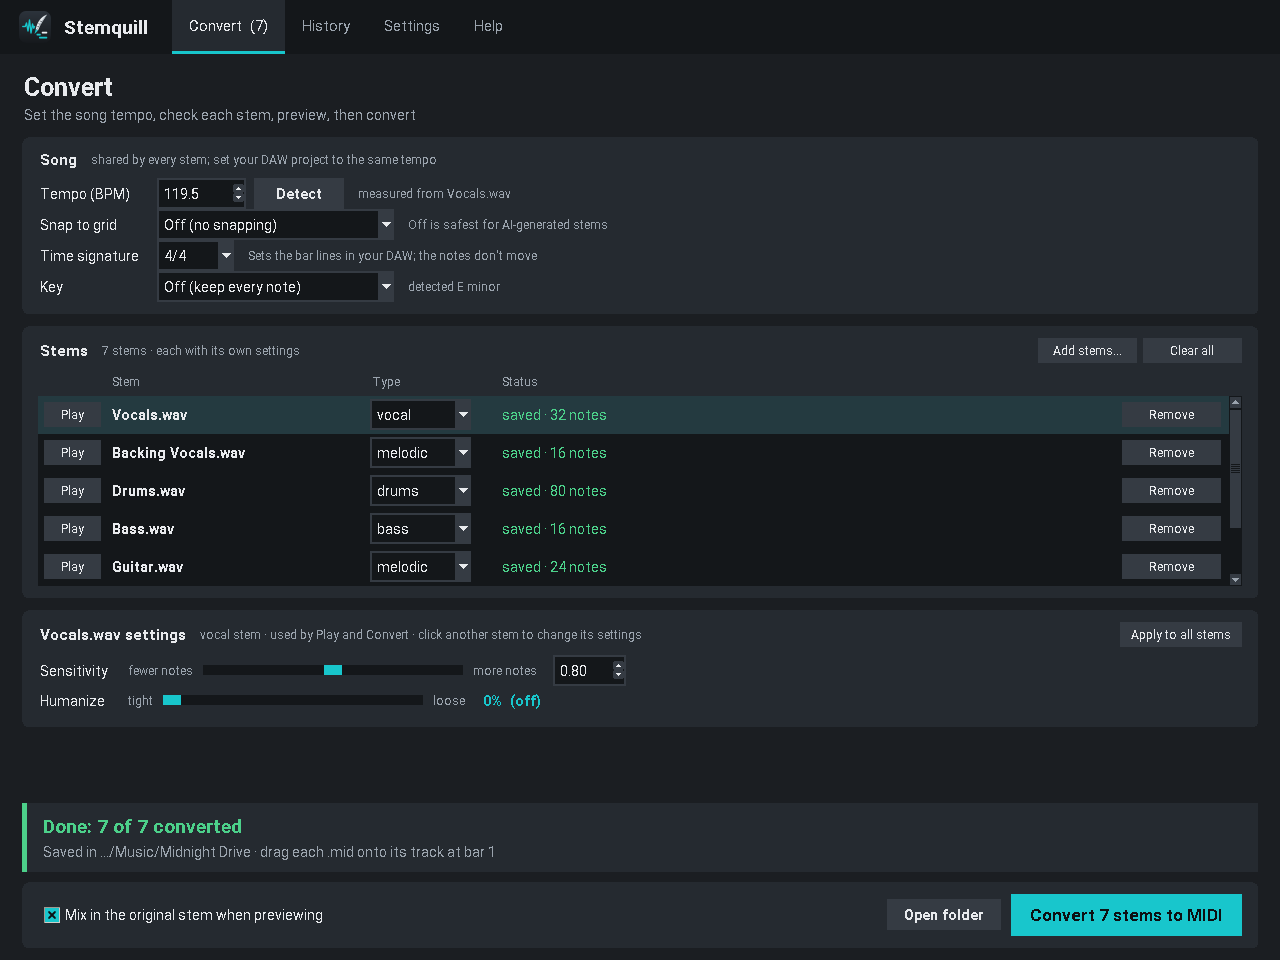
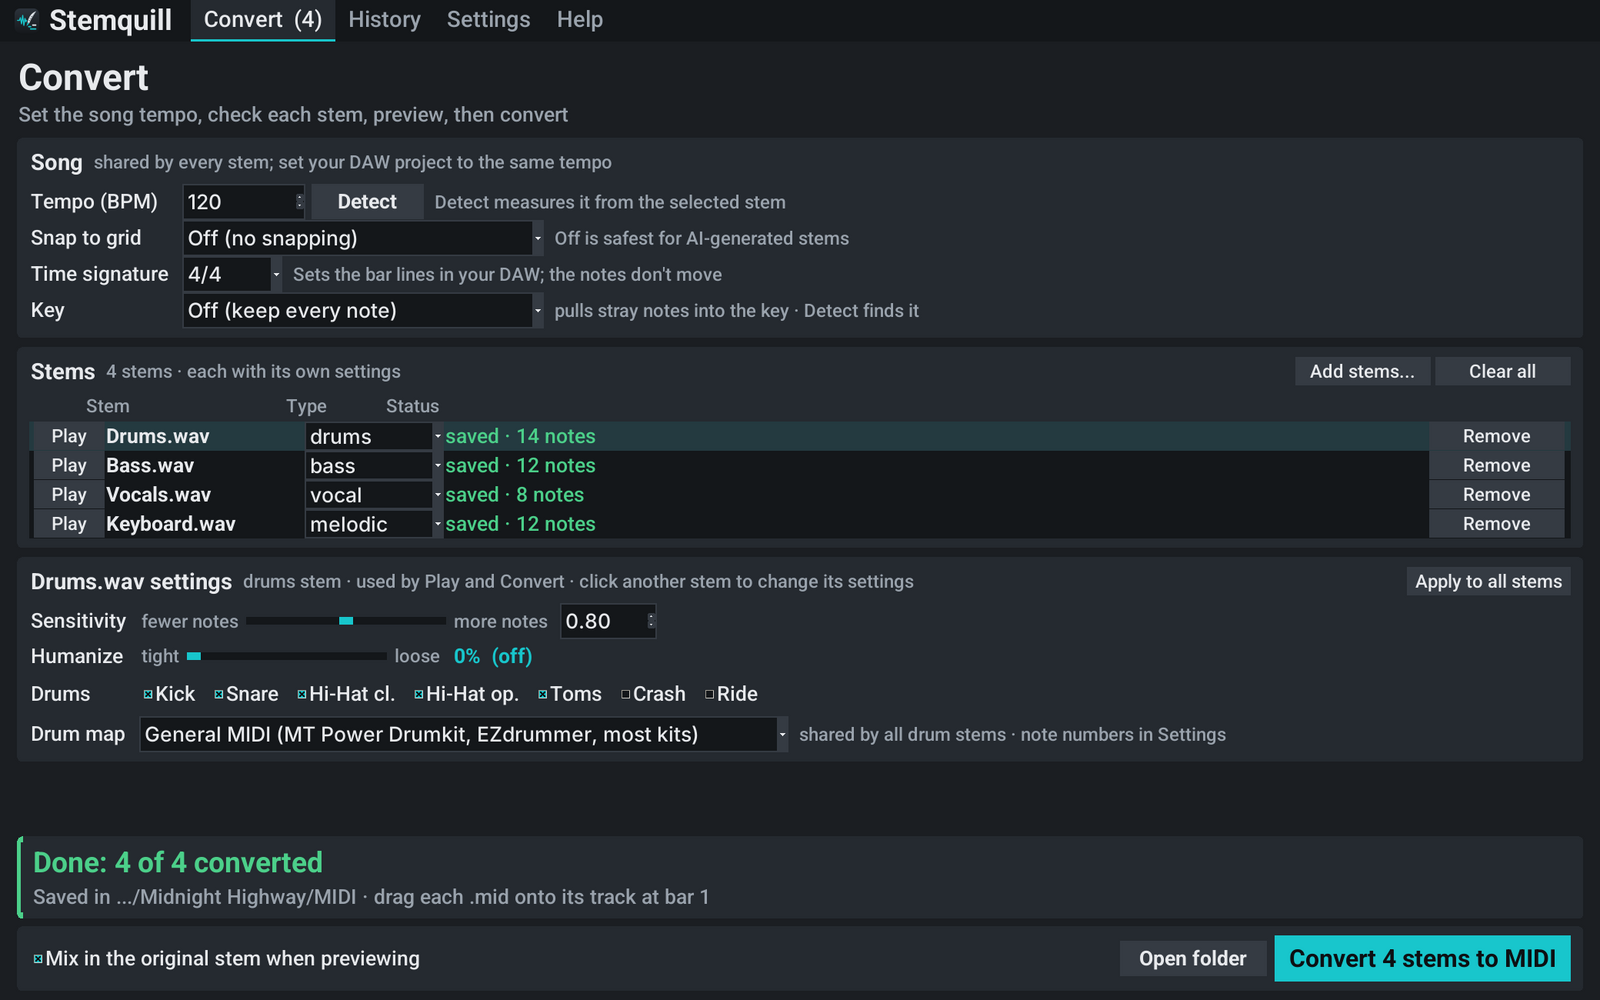
README: $11.99, the free demo, and a new screenshot
- Price is now $11.99 on the Microsoft Store and itch.io (badges, intro,
  install steps and the support section).
- New free demo: a badge, a "Try it free first" line with its limits, and
  the demo download / Store free trial in the install steps.
- New screenshot of the current window; current icon.

diff --git a/README.md b/README.md
@@ -1,8 +1,9 @@
 # <img src="docs/icon-64.png" alt="" width="48" align="center"> Stemquill
 
 [![License](https://img.shields.io/badge/license-Stemquill_License-blue?style=flat-square)](LICENSE)
-[![Microsoft Store](https://img.shields.io/badge/Microsoft_Store-%244.99-0078D6?style=flat-square&logo=microsoft&logoColor=white)](https://apps.microsoft.com/search?query=Stemquill)
-[![itch.io](https://img.shields.io/badge/itch.io-%244.99-FA5C5C?style=flat-square&logo=itchdotio&logoColor=white)](https://skynrlabs.itch.io/stemquill)
+[![Microsoft Store](https://img.shields.io/badge/Microsoft_Store-%2411.99-0078D6?style=flat-square&logo=microsoft&logoColor=white)](https://apps.microsoft.com/search?query=Stemquill)
+[![itch.io](https://img.shields.io/badge/itch.io-%2411.99-FA5C5C?style=flat-square&logo=itchdotio&logoColor=white)](https://skynrlabs.itch.io/stemquill)
+[![Free demo](https://img.shields.io/badge/free_demo-Windows_%7C_Mac_%7C_Linux-2EA44F?style=flat-square)](https://skynrlabs.itch.io/stemquill)
 ![Platform](https://img.shields.io/badge/platform-Windows%20%7C%20macOS%20%7C%20Linux-0078D6?style=flat-square)
 
 > Turn audio stems into MIDI for any DAW.  
@@ -13,6 +14,8 @@
 </p>
 
 $11.99 on the [Microsoft Store](https://apps.microsoft.com/search?query=Stemquill): signed by Microsoft, installs in one click, updates itself and includes better chord detection. Prefer a regular installer, or on a Mac or Linux? Get it on [itch.io](https://skynrlabs.itch.io/stemquill) (Windows, Mac and Linux), also $11.99.
+
+🎧 **Try it free first.** The free demo is on [itch.io](https://skynrlabs.itch.io/stemquill) for Windows, Mac and Linux, and as the free trial on the [Microsoft Store](https://apps.microsoft.com/search?query=Stemquill). Converting, every setting and the whole-stem preview work in full. Saved MIDI stops at 1:00, it converts up to 3 stems at a time, and the all-stems file and the command line are in the full version.
 
 🎉 **Launch offer:** 25% off on itch.io until February 11, 2027.
 
@@ -67,14 +70,14 @@ Stemquill is the bridge: audio in, MIDI out, with a preview so you can hear the 
 
 ### Windows: Microsoft Store (recommended)
 
-1. Open **[Stemquill on the Microsoft Store](https://apps.microsoft.com/search?query=Stemquill)** and buy it ($4.99 USD, or the local price where you are).
+1. Open **[Stemquill on the Microsoft Store](https://apps.microsoft.com/search?query=Stemquill)** and buy it ($11.99 USD, or the local price where you are), or choose **Free trial** to try the demo first. Buying later unlocks it after a restart, with no reinstall.
 2. Open **Stemquill** from the Start menu.
 
 The Store version is signed by Microsoft, so there's no security warning, it includes better chord detection, and it **updates itself** automatically. Every update is free. To remove it, use **Settings → Apps → Stemquill → Uninstall**.
 
 ### Windows: installer from itch.io
 
-1. Download **`Stemquill-Setup-x.y.z.zip`** from [itch.io](https://skynrlabs.itch.io/stemquill) ($4.99 USD).
+1. Download **`Stemquill-Setup-x.y.z.zip`** from [itch.io](https://skynrlabs.itch.io/stemquill) ($11.99 USD; the free **Stemquill Demo** download is there too).
 2. Run it and click through the installer. No Python or admin rights needed. On the **Additional tasks** page, keep **Better chord detection** ticked for more accurate chords on guitar, keys and synth stems (it adds about 45 MB).
 3. Open **Stemquill** from the Start menu (or the desktop shortcut, if you ticked it).
 
@@ -84,7 +87,7 @@ To update, run the newer installer. To remove, use **Settings → Apps → Stemq
 
 ### Mac: app from itch.io
 
-1. Download the Mac zip from [itch.io](https://skynrlabs.itch.io/stemquill) ($4.99 USD). Pick **Apple Silicon** if **Apple menu → About This Mac** says Apple M1 or newer, or **Intel** if it says Intel.
+1. Download the Mac zip from [itch.io](https://skynrlabs.itch.io/stemquill) ($11.99 USD; the free **Stemquill Demo** download is there too). Pick **Apple Silicon** if **Apple menu → About This Mac** says Apple M1 or newer, or **Intel** if it says Intel.
 2. Open the zip and drag **Stemquill** into your **Applications** folder. No Python needed.
 3. Open **Stemquill** from Applications.
 
@@ -92,7 +95,7 @@ The Mac app is signed and notarized by Apple, so it opens without a security war
 
 ### Linux: app from itch.io
 
-1. Download **`Stemquill-x.y.z-linux-x86_64.tar.gz`** from [itch.io](https://skynrlabs.itch.io/stemquill) ($4.99 USD).
+1. Download **`Stemquill-x.y.z-linux-x86_64.tar.gz`** from [itch.io](https://skynrlabs.itch.io/stemquill) ($11.99 USD; the free **Stemquill Demo** download is there too).
 2. Unpack it and run **`./install.sh`** inside the folder. No sudo or Python needed: it installs into your home folder and adds **Stemquill** to your app menu, plus a `stemquill` command.
 3. Open **Stemquill** from your app menu, or run `stemquill`.
 
@@ -256,7 +259,7 @@ Stemquill runs entirely on your computer. Your audio is never uploaded anywhere.
 
 ## 💚 Support Stemquill
 
-Stemquill is made by one person. If it saves you time, you can buy it for $4.99 on the [Microsoft Store](https://apps.microsoft.com/search?query=Stemquill) or on [itch.io](https://skynrlabs.itch.io/stemquill), or sponsor Skynr Labs on [GitHub Sponsors](https://github.com/sponsors/skynrlabs). It keeps new features coming. A rating or review on the [Microsoft Store](https://apps.microsoft.com/search?query=Stemquill), starring the repo, and sharing it with other producers all help too.
+Stemquill is made by one person. If it saves you time, you can buy it for $11.99 on the [Microsoft Store](https://apps.microsoft.com/search?query=Stemquill) or on [itch.io](https://skynrlabs.itch.io/stemquill), or sponsor Skynr Labs on [GitHub Sponsors](https://github.com/sponsors/skynrlabs). It keeps new features coming. A rating or review on the [Microsoft Store](https://apps.microsoft.com/search?query=Stemquill), starring the repo, and sharing it with other producers all help too.
 
 ---
 
